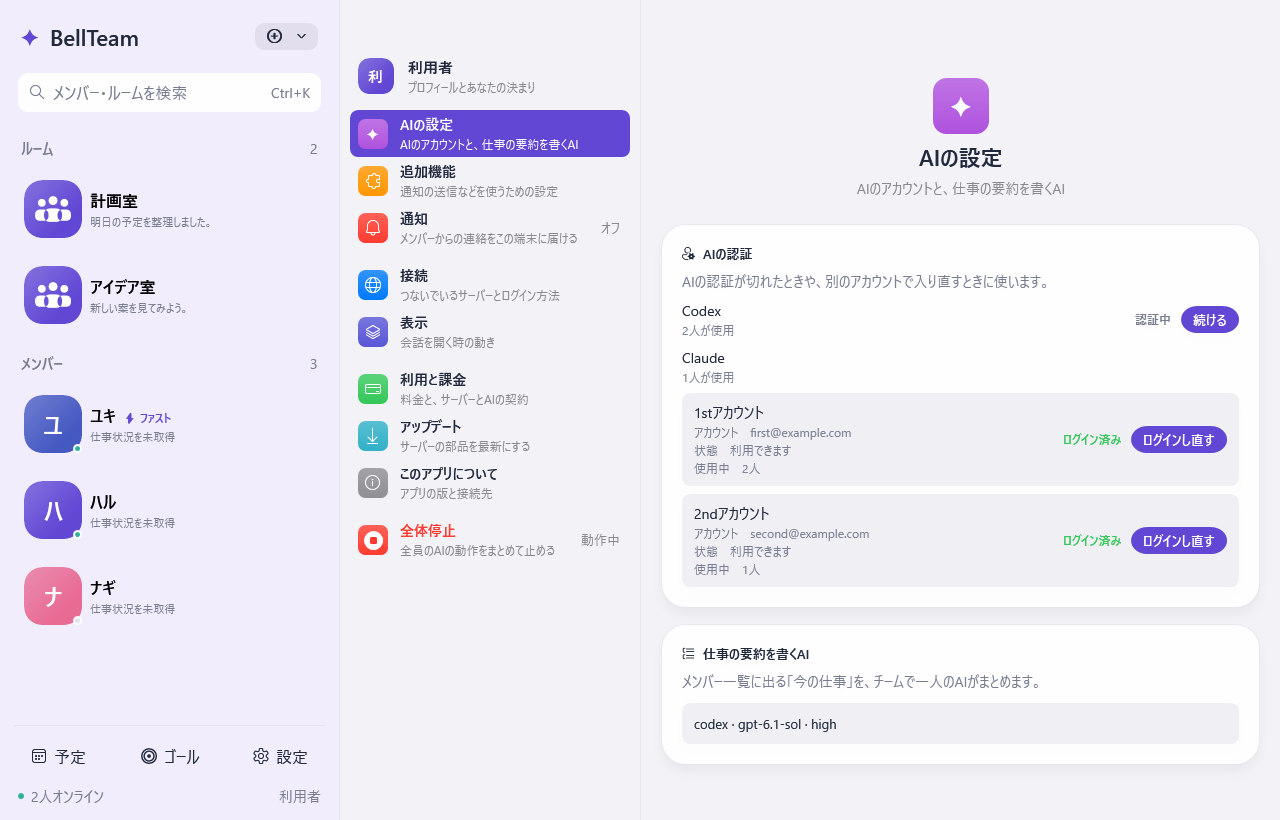
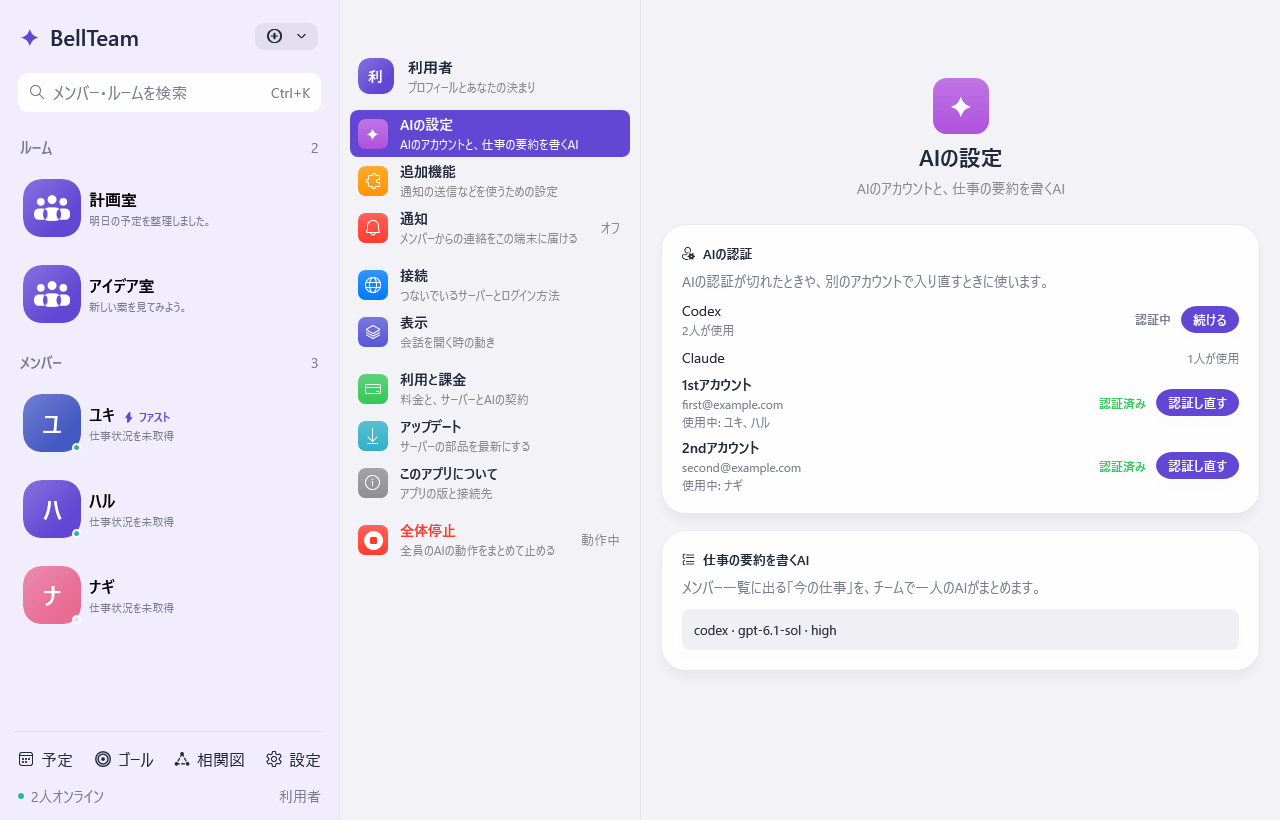
windows: Claude accounts card laid out as the Mac ClaudeAccountsCard (W-MAC 19 follow-up)

diff --git a/windows/BellTeam.App/SettingsPages.cs b/windows/BellTeam.App/SettingsPages.cs
@@ -182,23 +182,28 @@ public sealed partial class SettingsWindow
         }
         if (list.Claude is not { } claude) { Failed("アカウントの一覧にClaudeの項目がありません。"); return; }
         var now = DateTimeOffset.Now;
-        var heading = new StackPanel { Margin = new Thickness(0, 10, 0, 0) }; heading.Children.Add(Text(harness.Name, 14, Ink)); heading.Children.Add(Text(harness.UsageText, 12, Muted, null, new Thickness(0, 2, 0, 0))); host.Children.Add(heading);
-        foreach (var text in AccountText.BannerTexts(list, now))
+        // Mac ClaudeAccountsCard: the harness name with its usage on the right, the both-limited lines, then the slots as plain rows like the other AI rows.
+        var heading = new Grid { Margin = new Thickness(0, 10, 0, 0) }; heading.ColumnDefinitions.Add(new ColumnDefinition()); heading.ColumnDefinitions.Add(new ColumnDefinition { Width = GridLength.Auto });
+        var usage = Text(harness.UsageText, 12, Muted); usage.VerticalAlignment = VerticalAlignment.Center; Grid.SetColumn(usage, 1);
+        heading.Children.Add(Text(harness.Name, 14, Ink)); heading.Children.Add(usage); host.Children.Add(heading);
+        foreach (var text in AccountText.CardBannerTexts(list, now))
         {
-            var bar = FillRow(Text(text, 13, Orange, FontWeights.SemiBold), null); System.Windows.Automation.AutomationProperties.SetName(bar, text); host.Children.Add(bar);
+            var bar = Text("⚠ " + text, 12, Orange, null, new Thickness(0, 6, 0, 0)); System.Windows.Automation.AutomationProperties.SetName(bar, text); host.Children.Add(bar);
         }
         var ready = new List<Task>();
         foreach (var slot in claude.Slots)
         {
             if (AccountText.SlotTitle(slot.Slot) is not { } slotTitle) continue;
-            var names = new StackPanel { VerticalAlignment = VerticalAlignment.Center }; names.Children.Add(Text(slotTitle, 14, Ink));
-            var lines = new List<(string Term, string Value, Brush Color)>();
-            if (AccountText.Login(slot) is { } account) lines.Add(("アカウント", account, Muted));
-            lines.AddRange([("状態", AccountText.State(slot, now), slot.Limits.Length != 0 ? Orange : Muted), ("使用中", slot.Seats.Length + "人", Muted)]);
-            if (slot.History == "separate") lines.Add(("会話の履歴", "1stアカウントと分かれています", Muted));
-            foreach (var (term, value, color) in lines) names.Children.Add(Text(term + "　" + value, 12, color, null, new Thickness(0, 2, 0, 0)));
-            var (row, state) = AuthRow(names, harness, auth, slot.Slot, Reload, token); row.Margin = new Thickness(0);
-            var card = FillRow(row, null); System.Windows.Automation.AutomationProperties.SetName(card, slotTitle); host.Children.Add(card); ready.Add(state);
+            var names = new StackPanel { VerticalAlignment = VerticalAlignment.Center }; names.Children.Add(Text(slotTitle, 14, Ink, FontWeights.SemiBold));
+            var lines = new List<(string Text, Brush Color)>();
+            if (AccountText.Login(slot) is { } account) lines.Add((account, Muted));
+            lines.AddRange(slot.Limits.Select(item => (AccountText.LimitText(item.Scope, item.ResetAt, now), (Brush)Orange)));
+            if (AccountText.Seats(slot, workspace.MemberName) is { } seats) lines.Add((seats, Muted));
+            // The contract asks that the Owner sees a slot whose history could not be shared (harness-accounts `history: separate`); the Mac has no line for it yet.
+            if (slot.History == "separate") lines.Add(("会話の履歴は1stアカウントと分かれています", Muted));
+            foreach (var (value, color) in lines) names.Children.Add(Text(value, 12, color, null, new Thickness(0, 2, 0, 0)));
+            var (row, state) = AuthRow(names, harness, auth, slot.Slot, Reload, token); row.Margin = new Thickness(0, 8, 0, 0);
+            System.Windows.Automation.AutomationProperties.SetName(row, slotTitle); host.Children.Add(row); ready.Add(state);
         }
         await Task.WhenAll(ready);
     }

diff --git a/windows/BellTeam.Tests/HarnessAccountsTests.cs b/windows/BellTeam.Tests/HarnessAccountsTests.cs
@@ -100,14 +100,15 @@ public sealed class HarnessAccountsTests
     {
         var list = JsonSerializer.Deserialize<AccountsResponse>(Both, BellApi.Json)!;
         var first = list.Claude!.Slots[0]; var second = list.Claude.Slots[1];
-        Assert.Equal("first@example.com", AccountText.Login(first)); Assert.Equal("Fableのみ上限中 (23:00に解除)", AccountText.State(first, Now));
+        Assert.Equal("first@example.com", AccountText.Login(first)); Assert.Equal("Fableのみ上限中 (23:00に解除)", AccountText.LimitText(first.Limits[0].Scope, first.Limits[0].ResetAt, Now));
+        // Mac AccountText.seats: the members' names, nothing for an unused slot.
+        Assert.Equal("使用中: ベル、bot-two", AccountText.Seats(first, id => id == "bot-bell" ? "ベル" : null)); Assert.Null(AccountText.Seats(second, _ => "x"));
         // Mac f37b05a4: the name only when sent; the login state is the row's badge (認証済み／未認証／確認できません).
-        Assert.Null(AccountText.Login(second)); Assert.Equal("—", AccountText.State(second, Now));
+        Assert.Null(AccountText.Login(second));
         Assert.Null(AccountText.Login(new AccountSlot { Slot = "2nd", LoggedIn = true }));
         Assert.Equal(("認証済み", "認証し直す"), (HarnessRowState.FromSlot("authenticated").Title, HarnessRowState.FromSlot("authenticated").Action));
         Assert.Equal(("未認証", "認証する"), (HarnessRowState.FromSlot("blocked").Title, HarnessRowState.FromSlot("blocked").Action));
         Assert.Equal(("確認できません", "確認する"), (HarnessRowState.FromSlot(null).Title, HarnessRowState.FromSlot(null).Action));
-        Assert.Equal("利用できます", AccountText.State(new AccountSlot { Slot = "2nd", LoggedIn = true }, Now));
     }
 
     [Fact]
@@ -171,9 +172,10 @@ public sealed class HarnessAccountsTests
             using var workspace = Server((request, _) => Task.FromResult(request.Method == HttpMethod.Get ? StubHandler.Json(AllLimited) : StubHandler.Json("""{"rules":[]}""")), posts);
             var window = OpenCard(workspace); var texts = Texts(window);
             Assert.Contains("1stアカウント", texts); Assert.Contains("2ndアカウント", texts); Assert.DoesNotContain("Fableを2ndアカウントで使う", texts);   // Owner ruling 2026-11-09: limits alone pick the slot
-            Assert.Contains("アカウント　a@example.com", texts); Assert.Contains("使用中　1人", texts);
-            Assert.Contains(texts, text => text.StartsWith("両方のアカウントで上限中 ("));
-            Assert.Contains("状態　上限中 (解除時刻不明)", texts);
+            // Mac ClaudeAccountsCard: name, one orange line per limit, the members using the slot; no 状態/人数 lines.
+            Assert.Contains("a@example.com", texts); Assert.Contains(texts, text => text.StartsWith("使用中: ")); Assert.DoesNotContain(texts, text => text.StartsWith("状態"));
+            Assert.Contains(texts, text => text.StartsWith("⚠ 1stアカウントと2ndアカウントがどちらも上限中です（"));
+            Assert.Contains("上限中 (解除時刻不明)", texts);
             var buttons = Descendants<Button>(window).Select(button => button.Content as string).ToArray();
             Assert.Equal(3, buttons.Count(label => label == "認証し直す")); Assert.DoesNotContain("ログインし直す", buttons); // both slots and the Codex row share the wording
             Assert.Empty(posts); window.Close();

diff --git a/windows/BellTeam.Core/HarnessAccounts.cs b/windows/BellTeam.Core/HarnessAccounts.cs
@@ -64,8 +64,11 @@ public static class AccountText
         => (list?.Claude?.AllLimited ?? []).Select(item => "両方のアカウントで" + LimitText(item.Scope, item.EarliestResetAt, now)).ToArray();
     // Mac ClaudeAccountsCard: the account name only when the server sends one; the login state is the row's badge.
     public static string? Login(AccountSlot slot) => string.IsNullOrWhiteSpace(slot.Label) ? null : slot.Label;
-    public static string State(AccountSlot slot, DateTimeOffset now)
-        => slot.Limits.Length != 0 ? string.Join("・", slot.Limits.Select(item => LimitText(item.Scope, item.ResetAt, now))) : slot.LoggedIn == true ? "利用できます" : "—";
+    // Mac AccountText.bothLimited: the card's own banner wording (the member-list banner keeps BannerTexts, same as Web).
+    public static string[] CardBannerTexts(AccountsResponse? list, DateTimeOffset now)
+        => (list?.Claude?.AllLimited ?? []).Select(item => $"1stアカウントと2ndアカウントがどちらも{(string.IsNullOrEmpty(item.Scope) || item.Scope == "all" ? "上限中" : char.ToUpperInvariant(item.Scope[0]) + item.Scope[1..] + "が上限中")}です（{(ResetTime(item.EarliestResetAt, now) is { } time ? time + "に解除" : "解除時刻不明")}）").ToArray();
+    // Mac AccountText.seats: the members' names; nothing when no seat uses the slot.
+    public static string? Seats(AccountSlot slot, Func<string, string?> name) => slot.Seats.Length == 0 ? null : "使用中: " + string.Join("、", slot.Seats.Select(id => name(id) ?? id));
     // The seat's slot on the member card; nothing for an absent/null account or another harness.
     public static string? SeatText(SeatAccount? account) => account?.Harness == "claude" ? SlotTitle(account.Slot) : null;
 }

diff --git a/docs/windows-app.md b/docs/windows-app.md
@@ -175,7 +175,7 @@ Windows nativeの`npm test`は426件中397件成功・29件失敗。例えば`te
 
 初回設定が済んでいない接続先では、主窓の初期設定（Mac版のOnboardingView）で、AIの選択、公式サイトへのリンク、利用者コード、専用のマスク入力、「認証を確認して始める」、「認証の状態を更新」、「使うAIを変更」、「接続先を変更」へ進む。表示する入力は、サーバーが観測した認証の段階だけ（Mac版と同じ。段階のないPTY入力の欄は出さない）。認証待ちの表示中だけ3秒ごとに状態を読み、ウィンドウが前面にある間だけ動く。読み取りに失敗しても止めず、失敗を表示して次の成功で消す。利用者の操作で送る書き込みは再送しない。設定の「AIの認証」はCLIごとの利用人数を表示し、公式の状態確認、再認証、専用入力とキー送信、取消に対応する。サーバーの開始警告を表示し、確認を断れば開始しない。認証待ちの表示中だけ3秒ごとに状態を読み、非アクティブ化・終了で止める。読み取りの失敗は表示して次の回も読み、次の成功で消す（トロニーの11-08裁定）。これは失敗の再試行ではなく、進行中の公式認証の状態照会である。入力は送信・非アクティブ化・終了時に消し、通信失敗の詳細へ値を含めない。
 
-Claudeの2アカウント（契約は[harness-accounts](architecture/modules/execution/harness-accounts.md)。Apple版は未着で、契約とWeb版から実装した。Apple版の到着後に照合する）：設定の「AIの認証」でClaudeの行は、`GET /api/accounts`が答える時、「1stアカウント」「2ndアカウント」の2行になる。各行は、アカウント（CLIが記録したメール。未ログインは「未ログイン」、値が無ければ「ログイン状態は未確認」）、状態（上限が無ければ「利用できます」、あれば「上限中 (HH:MMに解除)」「Fableのみ上限中 (23:00に解除)」を「・」でつなぐ。解除時刻が無ければ「解除時刻不明」）、使用中（席の人数）、会話の履歴が分かれている時の注記を持つ。時刻はJSTで、今日でなければ「11/9 08:00」のように日付を付ける。各行の「ログイン」「ログインし直す」は既存の公式認証の窓を、そのアカウント（`?slot=`）で開く。1stは従来と同じ要求（`slot`なし）。両方のアカウントが同じ範囲で上限の時（`allLimited`）は、行の上に「両方のアカウントで上限中 (HH:MMに解除)」の帯を出す。旧本体（`GET /api/accounts`が404）では従来のClaude1行のまま。404以外の読み取り失敗は旧カードに見せず、理由と「一覧を更新」を出す。この欄は定期の読み取りを持たない（認証の窓の3秒の状態照会は従来のまま）。上限だけで席のアカウントが決まり、オーナーが選ぶ規則や「Fableを2ndアカウントで使う」の切替は無い（オーナー裁定 2026-11-09、契約PR #711）。1stで上限中のモデルは2ndで動き、解除時刻か、1stで上限でないモデルへの変更で1stへ戻る。メンバーのカードは今の席のアカウントだけを出す。
+Claudeの2アカウント（契約は[harness-accounts](architecture/modules/execution/harness-accounts.md)。表示はApple版の`ClaudeAccountsCard`（`cadc40c0`・`f37b05a4`）に合わせた）：設定の「AIの認証」でClaudeの行は、`GET /api/accounts`が答える時、見出し「Claude」（右に使用人数）の下に「1stアカウント」「2ndアカウント」の2行が、他のAIの行と同じ平らな行で並ぶ。各行は、アカウント名（本体が返した時だけ）、上限ごとにオレンジの1行（「上限中 (HH:MMに解除)」「Fableのみ上限中 (23:00に解除)」、解除時刻が無ければ「解除時刻不明」）、使っている席があれば「使用中: <メンバー名、…>」、会話の履歴が分かれている時の注記（契約がオーナーに見せると決めている。Apple版には無い）を持つ。時刻はJSTで、今日でなければ「11/9 08:00」のように日付を付ける。行の右は他のAIの行と同じ札（認証済み／未認証／確認できません）とボタン（認証し直す／認証する／確認する）で、ボタンは既存の公式認証の窓を、そのアカウント（`?slot=`）で開く。1stは従来と同じ要求（`slot`なし）。両方のアカウントが同じ範囲で上限の時（`allLimited`）は、行の上にApple版と同じ「1stアカウントと2ndアカウントがどちらも上限中です（HH:MMに解除）」（範囲がFableなら「Fableが上限中」）をオレンジで出す。旧本体（`GET /api/accounts`が404）では従来のClaude1行のまま。404以外の読み取り失敗は旧カードに見せず、理由と「一覧を更新」を出す。この欄は定期の読み取りを持たない（認証の窓の3秒の状態照会は従来のまま）。上限だけで席のアカウントが決まり、オーナーが選ぶ規則や「Fableを2ndアカウントで使う」の切替は無い（オーナー裁定 2026-11-09、契約PR #711）。1stで上限中のモデルは2ndで動き、解除時刻か、1stで上限でないモデルへの変更で1stへ戻る。メンバーのカードは今の席のアカウントだけを出す。
 
 キロの回答（2026-11-08）に沿って、両方のアカウントが上限中の時はメンバー一覧の上にも同じ文（「両方のアカウントで上限中 (…)」）を出す。一覧を読み直すたびに`GET /api/accounts`を読み、旧本体（404）や読めない時は出さない（Webの`loadAccountsBanner`と同じ）。`web/harness-accounts.js`の文言を契約外の文言の正とする。サーバーの403はどれもJSONの`error`付きの「オーナーが必要」の拒否なので、Windowsはそれをログイン切れとして扱わない。ログイン画面へ戻すのは401・転送・JSONでない403（Cloudflare Accessの拒否）だけ。
 

diff --git a/docs/windows-mac-parity-gaps.md b/docs/windows-mac-parity-gaps.md
@@ -283,7 +283,7 @@ Macの[settings-and-profile「1Password連携」](architecture/modules/apple/set
 ### 19. Claudeの2アカウントの照合 — S
 
 12のWindowsを、届いたApple版（`cadc40c0`・`f37b05a4`：アカウントごとの「認証済み」の札、共通のボタンの言い方）と並べて照合し、違いを直す。
-- 19 対応済み：Appleの`f37b05a4`に合わせ、1st・2ndの行の札とボタンを他のAIの行と同じ言い方にした（認証済み／未認証／確認できません、認証し直す／認証する／確認する。`HarnessRowState.FromSlot`）。「アカウント」の行は、本体がアカウント名を返した時だけ出す（「ログイン済み」「未ログイン」の文はやめた）。上限・使用中・両方上限の帯・メンバーの席のアカウントは`cadc40c0`と同じで変えない。写真：[2行・通常](assets/windows-mac-gaps/windows/pr19-accounts-normal.png)・[2ndが未認証](assets/windows-mac-gaps/windows/pr19-accounts-unlogged.png)。Macのこの画面の写真は、ラピに頼んだ（届いたら並べる）。
+- 19 対応済み：Appleの`f37b05a4`に合わせ、1st・2ndの行の札とボタンを他のAIの行と同じ言い方にした（認証済み／未認証／確認できません、認証し直す／認証する／確認する。`HarnessRowState.FromSlot`）。「アカウント」の行は、本体がアカウント名を返した時だけ出す（PR #1045）。Macの写真（ラピ、`16636730`）と並べて残りの違いも直した：灰色の箱をやめて平らな行にし、見出し「Claude」の右に使用人数、アカウント名は見出しなし、上限は1件ずつオレンジの行、「使用中: <メンバー名>」（使う席が無ければ出さない）、「状態」と人数の行はやめた。カード内の両方上限の帯はMacの「1stアカウントと2ndアカウントがどちらも…です（…）」。メンバー一覧の上の帯はWebと同じ文のまま（キロの回答）。会話の履歴が分かれている時の注記は、契約がオーナーに見せると決めているので残す（Macには無い）。写真（Windows ← Mac）：[両方とも認証済み](assets/windows-mac-gaps/windows/pr19-accounts-normal.png) ← [Mac](assets/windows-mac-gaps/mac/b3-01-claude-accounts-both-authenticated.png)・[2ndが未認証](assets/windows-mac-gaps/windows/pr19-accounts-unlogged.png) ← [Mac](assets/windows-mac-gaps/mac/b3-02-claude-accounts-second-unauthenticated.png)。12の写真（`pr12-accounts-*`）も今の画面で撮り直した。
 
 ### 追従の順と見積もり
 
